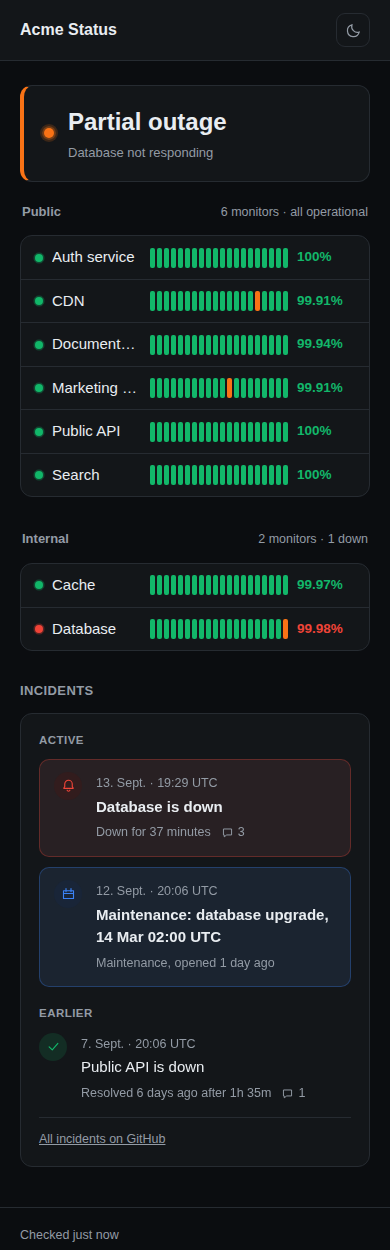
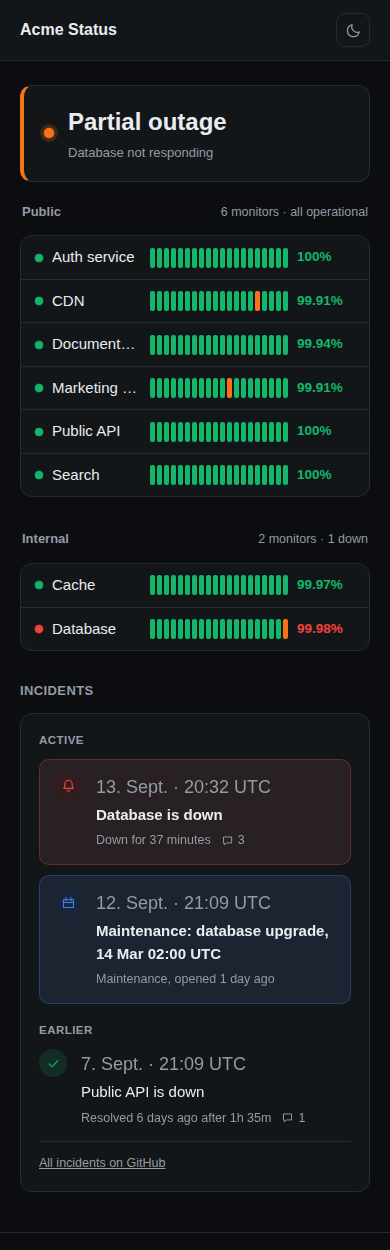
style: 18px on the date of an incident

diff --git a/site/style.css b/site/style.css
@@ -263,7 +263,7 @@ main.shell {
 }
 
 .event-date {
-  font-size: 12.5px;
+  font-size: 18px;
   color: var(--muted);
 }
 
